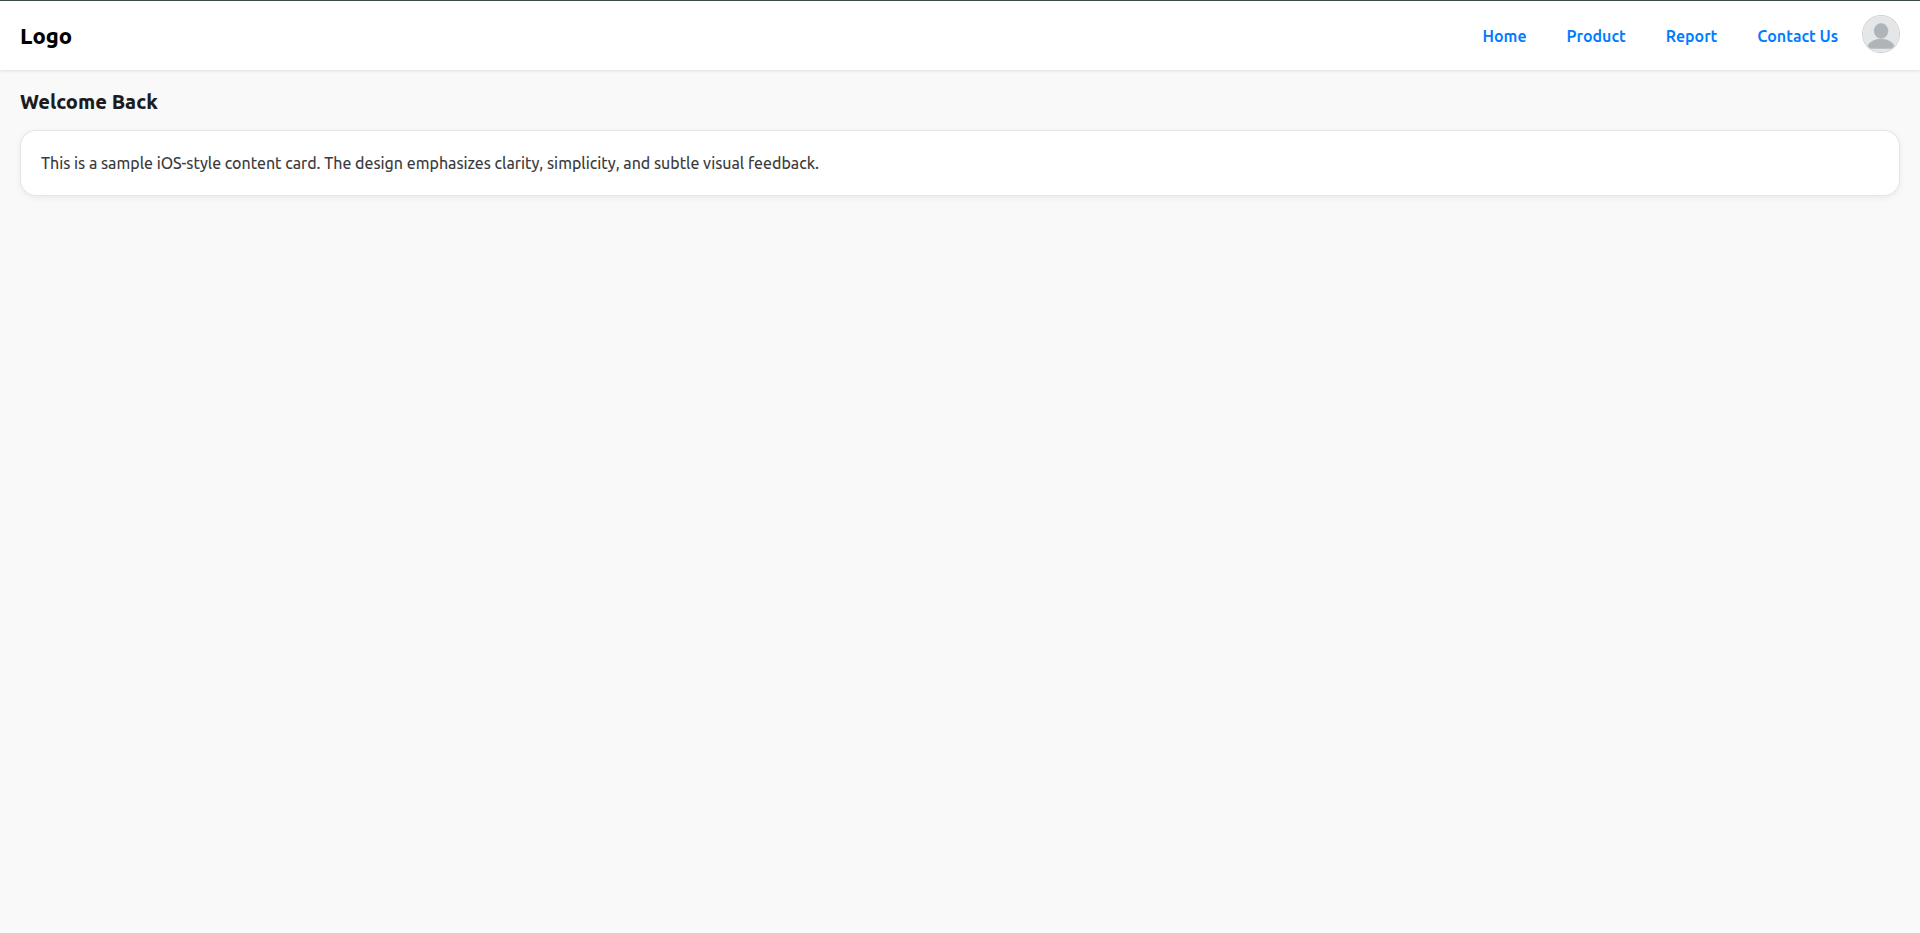
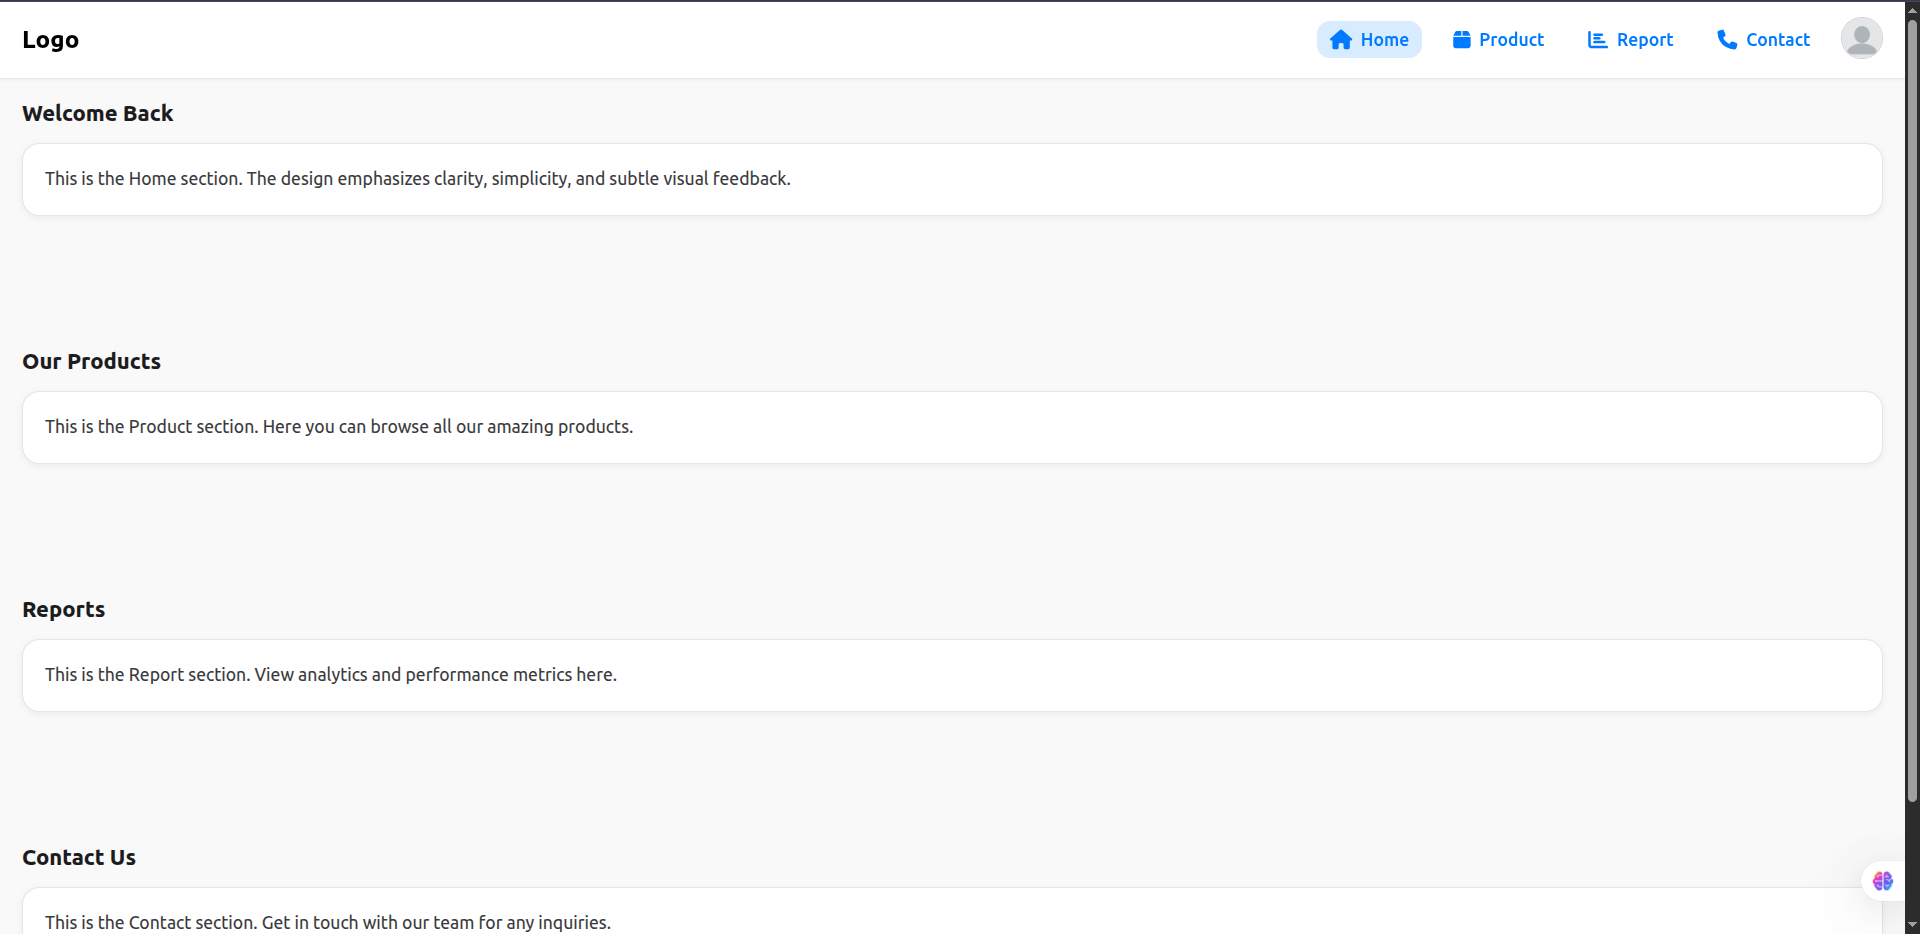
update

diff --git a/navbars/navbar-icon/navbar-icon.html b/navbars/navbar-icon/navbar-icon.html
@@ -5,7 +5,7 @@
   <meta charset="UTF-8" />
   <meta name="viewport" content="width=device-width, initial-scale=1" />
   <link rel="stylesheet" href="https://cdnjs.cloudflare.com/ajax/libs/font-awesome/6.6.0/css/all.min.css" />
-  <title>Navbar</title>
+  <title>Responsive Navbar</title>
   <style>
     * {
       font-family: -apple-system, BlinkMacSystemFont, "Segoe UI", Roboto, Oxygen,
@@ -42,31 +42,46 @@
       user-select: none;
     }
 
-    /* Navigation Items Container */
+    /* Main Navigation - Default (Desktop) */
     .nav {
+      flex: 1;
       display: flex;
+      justify-content: flex-end;
       align-items: center;
     }
 
     .nav__list {
       display: flex;
       list-style: none;
-      gap: 24px;
+      gap: 16px;
+      margin: 0;
+      padding: 0;
     }
 
     .nav__item a {
       color: #007aff;
-      /* iOS blue */
       font-weight: 500;
       font-size: 16px;
       text-decoration: none;
-      padding: 6px 8px;
+      padding: 8px 12px;
       border-radius: 12px;
-      transition: background-color 0.25s ease;
+      transition: all 0.25s ease;
+      display: flex;
+      align-items: center;
+      gap: 8px;
     }
 
-    .nav__item a:hover {
+    .nav__item a:hover,
+    .nav__item a.nav__link--active {
       background-color: rgba(0, 122, 255, 0.15);
+    }
+
+    .nav__item .nav__icon {
+      font-size: 18px;
+    }
+
+    .nav__item .nav__text {
+      display: inline;
     }
 
     /* Profile Picture */
@@ -80,7 +95,6 @@
       border-radius: 50%;
       cursor: pointer;
       border: 1.5px solid #d1d1d6;
-      /* subtle border like iOS */
       transition: box-shadow 0.3s ease;
     }
 
@@ -88,75 +102,62 @@
       box-shadow: 0 0 8px rgba(0, 122, 255, 0.5);
     }
 
-    /* Mobile Bottom Navbar */
-    .bottom-navbar {
-      display: none;
-      position: fixed;
-      bottom: 12px;
-      left: 50%;
-      transform: translateX(-50%);
-      width: calc(100% - 40px);
-      max-width: 420px;
-      background: rgba(255 255 255 / 0.9);
-      backdrop-filter: saturate(180%) blur(10px);
-      box-shadow: 0 8px 24px rgb(0 0 0 / 0.12);
-      border-radius: 28px;
-      padding: 8px 0;
-      z-index: 110;
-    }
-
-    .bottom-navbar__list {
-      display: flex;
-      justify-content: space-around;
-      align-items: center;
-      list-style: none;
-      padding: 0 10px;
-      margin: 0;
-    }
-
-    .bottom-navbar__item {
-      flex: 1;
-      text-align: center;
-    }
-
-    .bottom-navbar__link {
-      display: flex;
-      flex-direction: column;
-      align-items: center;
-      font-size: 12px;
-      font-weight: 600;
-      color: #8e8e93;
-      text-decoration: none;
-      user-select: none;
-      padding: 6px 4px;
-      transition: color 0.3s ease;
-      border-radius: 100px;
-    }
-
-    .bottom-navbar__link i {
-      font-size: 22px;
-      margin-bottom: 4px;
-      line-height: 1;
-    }
-
-    .bottom-navbar__link:hover,
-    .bottom-navbar__link--active {
-      color: #007aff;
-    }
-
+    /* Mobile Navigation Styles */
     @media (max-width: 767.98px) {
-      .nav__list {
-        display: none;
+
+      /* Convert to bottom navbar */
+      .nav {
+        position: fixed;
+        bottom: 12px;
+        left: 50%;
+        transform: translateX(-50%);
+        width: calc(100% - 40px);
+        max-width: 420px;
+        background: rgba(255 255 255 / 0.9);
+        backdrop-filter: saturate(180%) blur(10px);
+        box-shadow: 0 8px 24px rgb(0 0 0 / 0.12);
+        border-radius: 28px;
+        padding: 8px 0;
+        z-index: 110;
+        justify-content: center;
       }
 
-      .bottom-navbar {
-        display: block;
+      .nav__list {
+        width: 100%;
+        justify-content: space-around;
+        gap: 0;
+      }
+
+      .nav__item a {
+        flex-direction: column;
+        font-size: 12px;
+        font-weight: 600;
+        color: #8e8e93;
+        padding: 6px 12px;
+        border-radius: 100px;
+        background-color: transparent !important;
+      }
+
+      .nav__item .nav__icon {
+        font-size: 22px;
+        margin-bottom: 4px;
+      }
+
+      .nav__item a:hover,
+      .nav__item a.nav__link--active {
+        color: #007aff;
+      }
+
+      /* Adjust header padding */
+      .header {
+        padding-bottom: 24px;
       }
     }
 
     /* iOS-style content */
     .section {
       padding: 20px;
+      margin-bottom: 80px; /* Add space for bottom navbar on mobile */
     }
 
     .section__title {
@@ -188,44 +189,107 @@
       <h2 class="header__logo">Logo</h2>
       <nav class="nav" aria-label="Primary navigation">
         <ul class="nav__list">
-          <li class="nav__item"><a href="#">Home</a></li>
-          <li class="nav__item"><a href="#">Product</a></li>
-          <li class="nav__item"><a href="#">Report</a></li>
-          <li class="nav__item"><a href="#">Contact Us</a></li>
+          <li class="nav__item">
+            <a href="#home" class="nav__link--active">
+              <i class="fas fa-home nav__icon"></i>
+              <span class="nav__text">Home</span>
+            </a>
+          </li>
+          <li class="nav__item">
+            <a href="#product">
+              <i class="fas fa-box nav__icon"></i>
+              <span class="nav__text">Product</span>
+            </a>
+          </li>
+          <li class="nav__item">
+            <a href="#report">
+              <i class="fas fa-chart-bar nav__icon"></i>
+              <span class="nav__text">Report</span>
+            </a>
+          </li>
+          <li class="nav__item">
+            <a href="#contact">
+              <i class="fas fa-phone nav__icon"></i>
+              <span class="nav__text">Contact</span>
+            </a>
+          </li>
         </ul>
-        <a href="#" class="profile">
-          <img class="profile__image"
-            src="https://cdn.pixabay.com/photo/2015/10/05/22/37/blank-profile-picture-973460_960_720.png"
-            alt="Profile Picture" />
-        </a>
       </nav>
+      <a href="#" class="profile">
+        <img class="profile__image"
+          src="https://cdn.pixabay.com/photo/2015/10/05/22/37/blank-profile-picture-973460_960_720.png"
+          alt="Profile Picture" />
+      </a>
     </header>
 
     <div class="content-wrapper">
-      <div class="section">
+      <section id="home" class="section">
         <h3 class="section__title">Welcome Back</h3>
         <div class="card">
           <p class="card__text">
-            This is a sample iOS-style content card. The design emphasizes clarity, simplicity, and subtle visual
-            feedback.
+            This is the Home section. The design emphasizes clarity, simplicity, and subtle visual feedback.
           </p>
         </div>
-      </div>
+      </section>
+      
+      <section id="product" class="section">
+        <h3 class="section__title">Our Products</h3>
+        <div class="card">
+          <p class="card__text">
+            This is the Product section. Here you can browse all our amazing products.
+          </p>
+        </div>
+      </section>
+      
+      <section id="report" class="section">
+        <h3 class="section__title">Reports</h3>
+        <div class="card">
+          <p class="card__text">
+            This is the Report section. View analytics and performance metrics here.
+          </p>
+        </div>
+      </section>
+      
+      <section id="contact" class="section">
+        <h3 class="section__title">Contact Us</h3>
+        <div class="card">
+          <p class="card__text">
+            This is the Contact section. Get in touch with our team for any inquiries.
+          </p>
+        </div>
+      </section>
     </div>
-
-    <nav class="bottom-navbar" aria-label="Mobile primary navigation">
-      <ul class="bottom-navbar__list">
-        <li class="bottom-navbar__item"><a href="#" class="bottom-navbar__link bottom-navbar__link--active"><i
-              class="fas fa-home"></i> Home</a></li>
-        <li class="bottom-navbar__item"><a href="#" class="bottom-navbar__link"><i class="fas fa-box"></i> Product</a>
-        </li>
-        <li class="bottom-navbar__item"><a href="#" class="bottom-navbar__link"><i class="fas fa-chart-bar"></i>
-            Report</a></li>
-        <li class="bottom-navbar__item"><a href="#" class="bottom-navbar__link"><i class="fas fa-phone"></i> Contact</a>
-        </li>
-      </ul>
-    </nav>
   </div>
+  
+  <script>
+    document.addEventListener('DOMContentLoaded', function() {
+      const sections = document.querySelectorAll('section');
+      const navLinks = document.querySelectorAll('.nav__item a');
+      
+      function updateActiveNav() {
+        let current = '';
+        
+        sections.forEach(section => {
+          const sectionTop = section.offsetTop;
+          const sectionHeight = section.clientHeight;
+          
+          if (pageYOffset >= (sectionTop - 100)) {
+            current = section.getAttribute('id');
+          }
+        });
+        
+        navLinks.forEach(link => {
+          link.classList.remove('nav__link--active');
+          if (link.getAttribute('href') === `#${current}`) {
+            link.classList.add('nav__link--active');
+          }
+        });
+      }
+      
+      window.addEventListener('scroll', updateActiveNav);
+      updateActiveNav();
+    });
+  </script>
 </body>
 
 </html>
